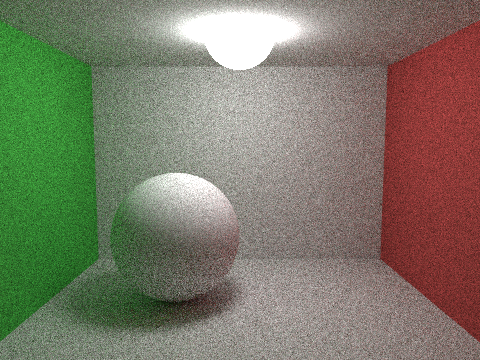
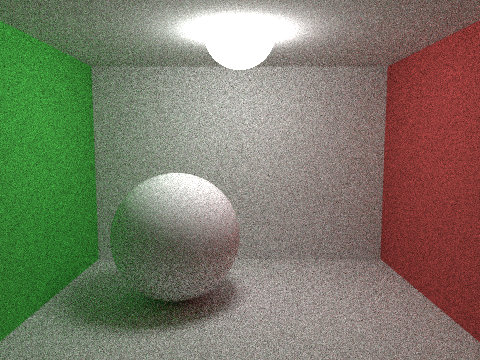
Fixed bug in PDF
- Accidentally multiplied rather than divided

diff --git a/src/material.rs b/src/material.rs
@@ -44,7 +44,7 @@ pub trait Material: Send + Sync {
 
     #[inline]
     fn pdf(&self) -> f32 {
-        0.5 * PI
+        0.5 / PI
     }
 
     fn emitted(&self, _u: f32, _v: f32, _point: &Vec3) -> Colour {
@@ -71,10 +71,10 @@ impl Material for Diffuse {
     ) -> Option<(Ray, Colour)> {
         let r1 = rng.gen::<f32>();
         let r2 = rng.gen::<f32>();
-        let n = rec.normal;
-        let (nt, nb) = create_coordinates_system(&n);
+        let w = rec.normal;
+        let (u, v) = create_coordinates_system(&w);
         let scattered_local = uniform_sample_hemisphere(r1, r2);
-        let scattered_dir = scattered_local.x * nt + scattered_local.y * nb + scattered_local.z * n;
+        let scattered_dir = scattered_local.x * u + scattered_local.y * v + scattered_local.z * w;
         let scattered = Ray::new(rec.point, scattered_dir, ray.t_min, ray.t_max);
         let colour = self.albedo;
 

diff --git a/src/main.rs b/src/main.rs
@@ -67,7 +67,7 @@ fn cast_ray(ray: &Ray, scene: &Scene, depth: u32, rng: &mut ThreadRng) -> Colour
             let emitted = material.emitted(0.0, 0.0, &rec.point);
             if let Some((scattered, colour)) = material.scatter(ray, &rec, rng) {
                 let pdf = material.pdf();
-                let cosine = scattered.direction.dot(rec.normal) / PI;
+                let cosine = (scattered.direction.dot(rec.normal)).max(0.0) / PI;
                 pixel_colour +=
                     emitted + colour * cosine * cast_ray(&scattered, scene, depth - 1, rng) / pdf;
             } else {
